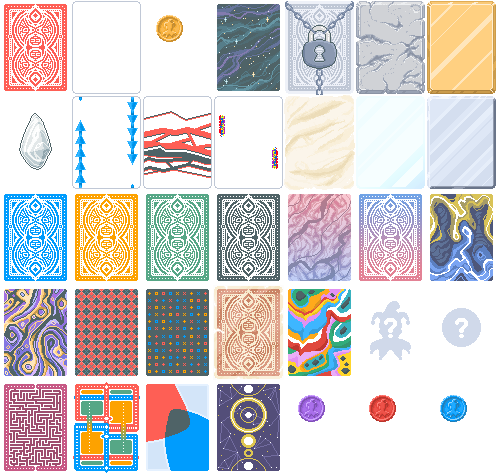
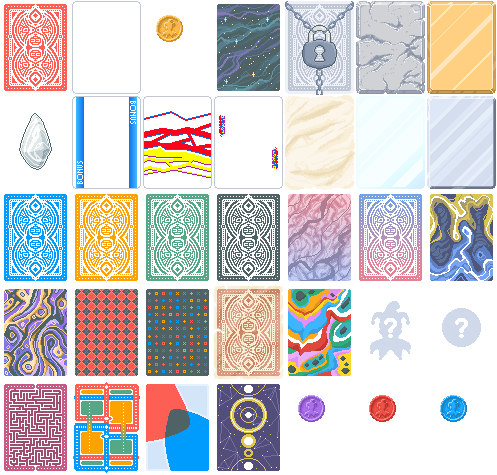
Add 5s and Bonus + Mult enhancements

Changed region(s): [[0.2414, 0.2063, 0.4225, 0.4126], [0.1509, 0.2063, 0.1811, 0.4126]]

diff --git a/README.md b/README.md
@@ -13,16 +13,16 @@ Bejeweled-themed deck skin for Balatro
 3. Upon entering the game, go to "Options" and "Customize deck", set all suits to "Balajeweled"
 4. If everything's fine, you are all set :D
 
-## Progress ![27%](https://progress-bar.xyz/27)
+## Progress ![45%](https://progress-bar.xyz/45)
 - [x] Ace
 - [x] 2
 - [x] 3
 - [x] 4
-- [ ] 5
+- [x] 5
 - [ ] 6
 - [ ] 7
 - [ ] 8
 - [ ] 9
 - [ ] 10
-- [ ] Some enhancements (Wild, Bonus...)
+- [x] Some enhancements (Wild, Bonus...)
 - [ ] Face Cards **_(no plans for now, excluded from percentage)_**
